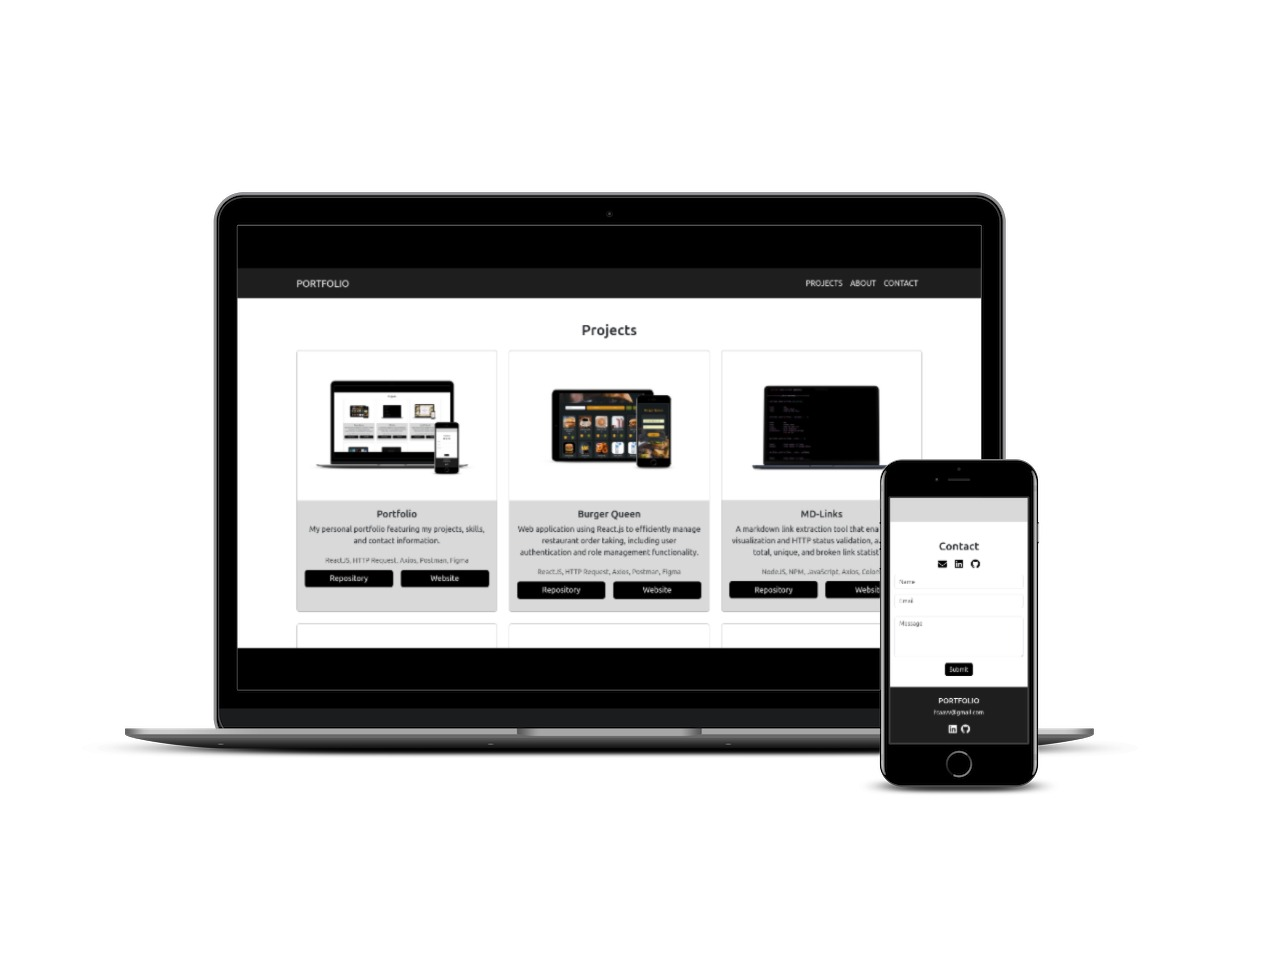
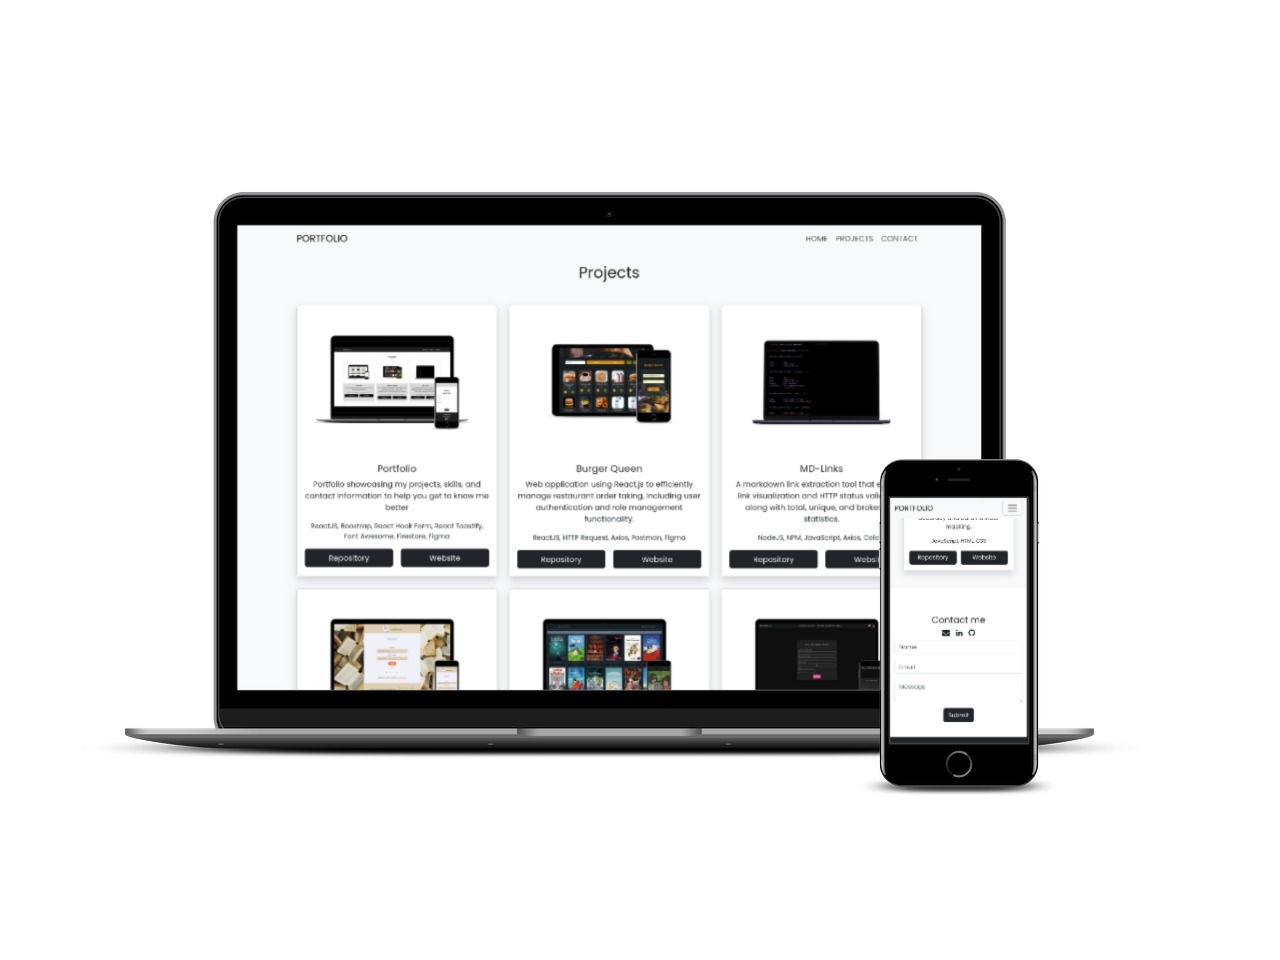
feat: update data.js and project mockup in assets

Changed region(s): [[0.1875, 0.3438, 0.8125, 0.7812], [0.1875, 0.2188, 0.7812, 0.3125], [0.7188, 0.625, 0.7812, 0.6562]]

diff --git a/src/components/Projects/data.js b/src/components/Projects/data.js
@@ -1,12 +1,10 @@
-import React from "react";
-
 export const projects = [
   {
     title: "Portfolio",
     description:
-      "My personal portfolio featuring my projects, skills, and contact information.",
+      "Portfolio showcasing my projects, skills, and contact information to help you get to know me better",
     technologies:
-      "ReactJS, React Boostrap, React Hook Form, React Toastify, Firestore, Figma",
+      "ReactJS, Boostrap, React Hook Form, React Toastify, Font Awesome, Firestore, Figma",
     imageSrc: "/public/assets/mockup_portfolio.jpg",
     repoLink: "",
     websiteLink: "",
